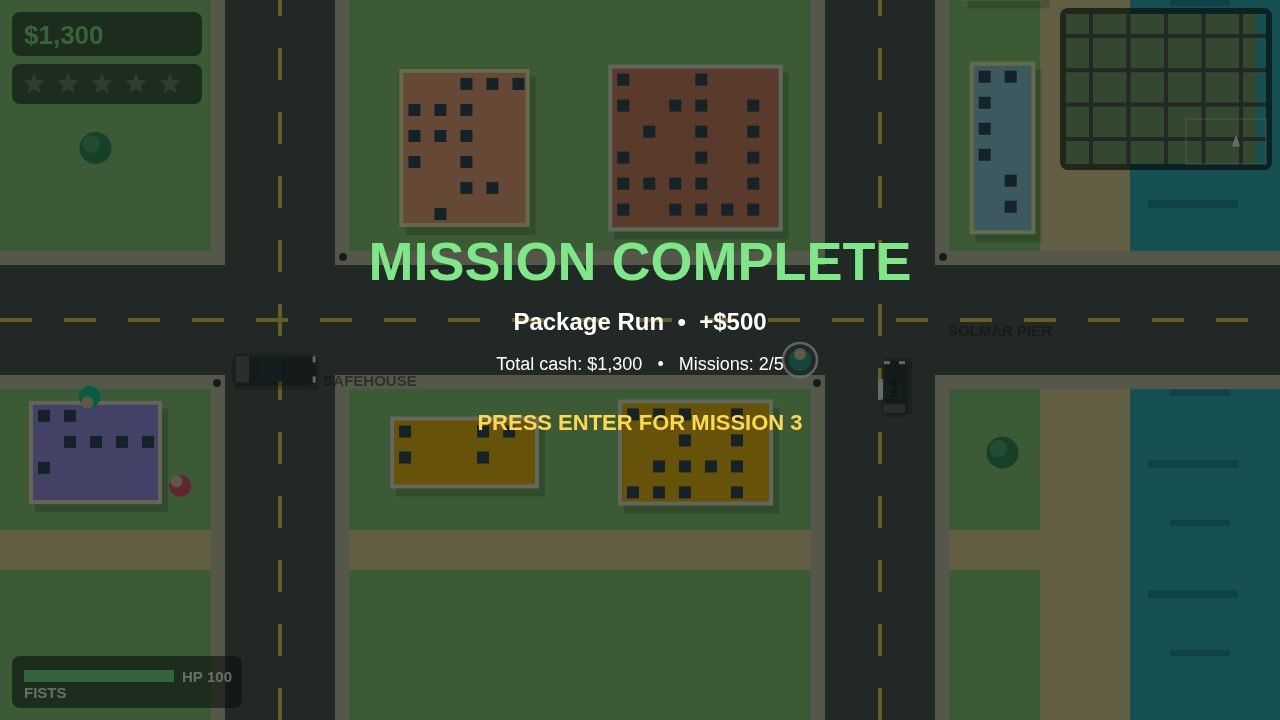
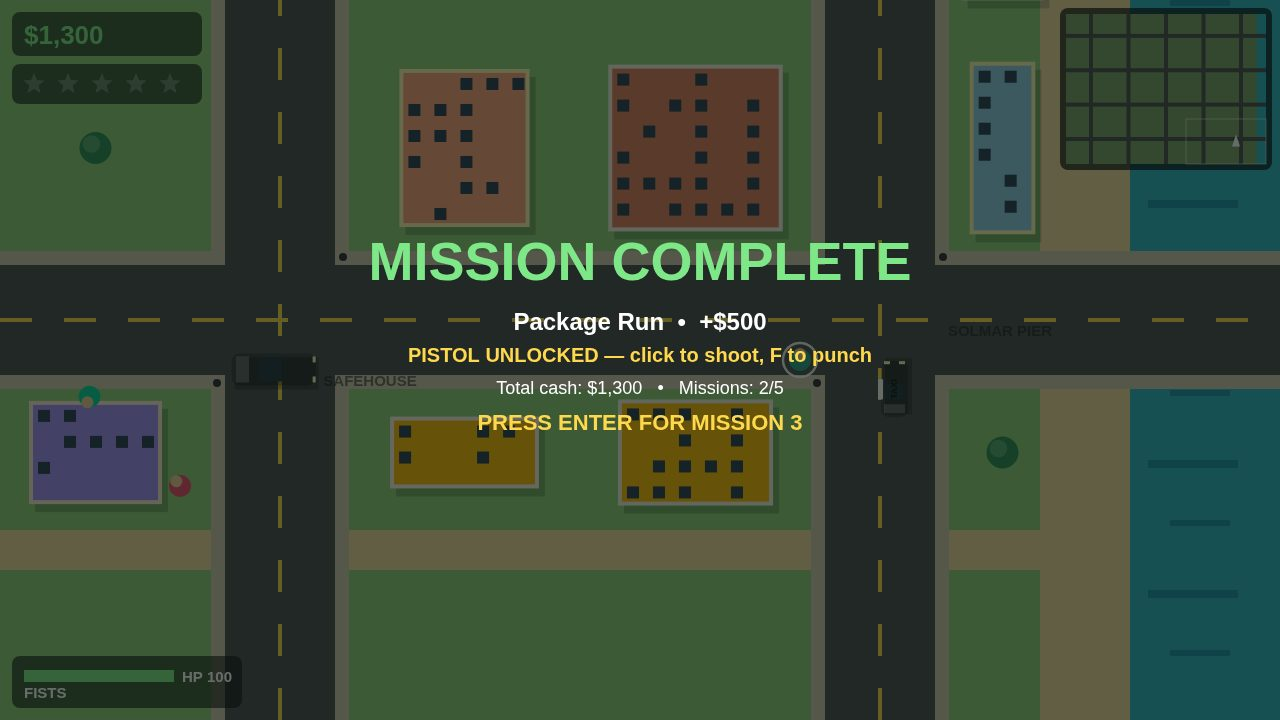
Unlock the pistol after mission 2 (48 rounds)
The pistol was unreachable in organic play, leaving mission 4
punch-only. Completing Package Run now grants it, and the
mission-complete screen says so.

Changed region(s): [[0.3125, 0.4583, 0.6875, 0.55]]

diff --git a/game/src/render.js b/game/src/render.js
@@ -555,8 +555,14 @@ function drawMissionComplete(ctx, G) {
   ctx.fillStyle = '#fff';
   ctx.font = 'bold 24px Arial';
   ctx.fillText(m.name + '  •  +' + fmtCash(m.reward), CFG.viewW / 2, 330);
+  if (m.id === 2) {
+    ctx.fillStyle = '#ffd94d';
+    ctx.font = 'bold 20px Arial';
+    ctx.fillText('PISTOL UNLOCKED — click to shoot, F to punch', CFG.viewW / 2, 362);
+  }
+  ctx.fillStyle = '#fff';
   ctx.font = '18px Arial';
-  ctx.fillText('Total cash: ' + fmtCash(G.player.cash) + '   •   Missions: ' + m.id + '/5', CFG.viewW / 2, 370);
+  ctx.fillText('Total cash: ' + fmtCash(G.player.cash) + '   •   Missions: ' + m.id + '/5', CFG.viewW / 2, 394);
   ctx.fillStyle = '#ffd94d';
   ctx.font = 'bold 22px Arial';
   ctx.fillText('PRESS ENTER FOR MISSION ' + (m.id + 1), CFG.viewW / 2, 430);

diff --git a/game/src/missions.js b/game/src/missions.js
@@ -154,6 +154,8 @@ function completeMission(G) {
   p.cash += m.def.reward;
   p.missionsDone = m.def.id;
   p.score += m.def.reward + (m.def.id === 5 ? 1000 : 0);
+  // Mama Lupe arms Jax after the package run: pistol + 48 rounds.
+  if (m.def.id === 2) { p.weapon = 'pistol'; p.ammo = 48; }
   AudioSys.missionDone();
   G.mission = null;
   if (m.def.id >= MISSIONS.length) {
